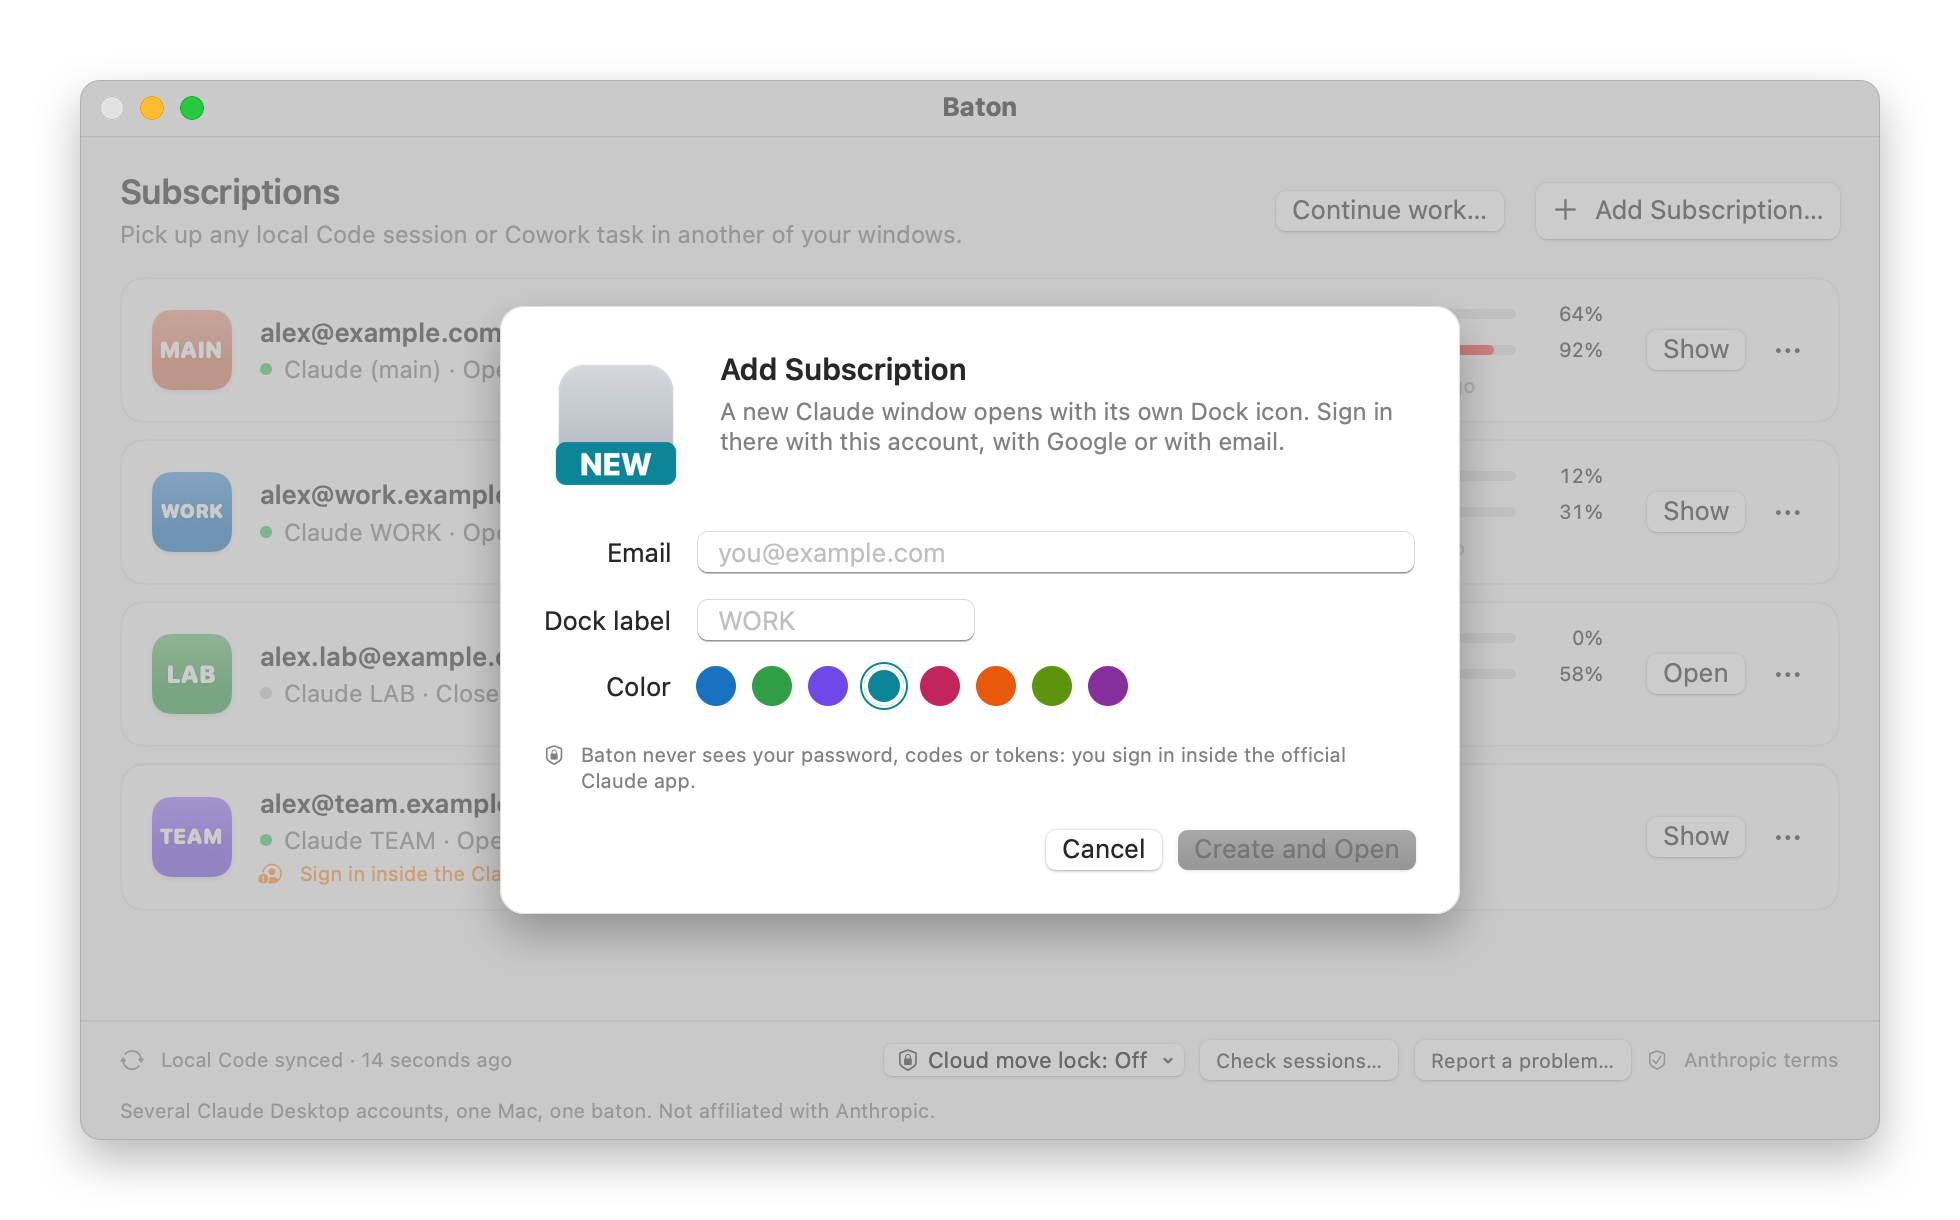
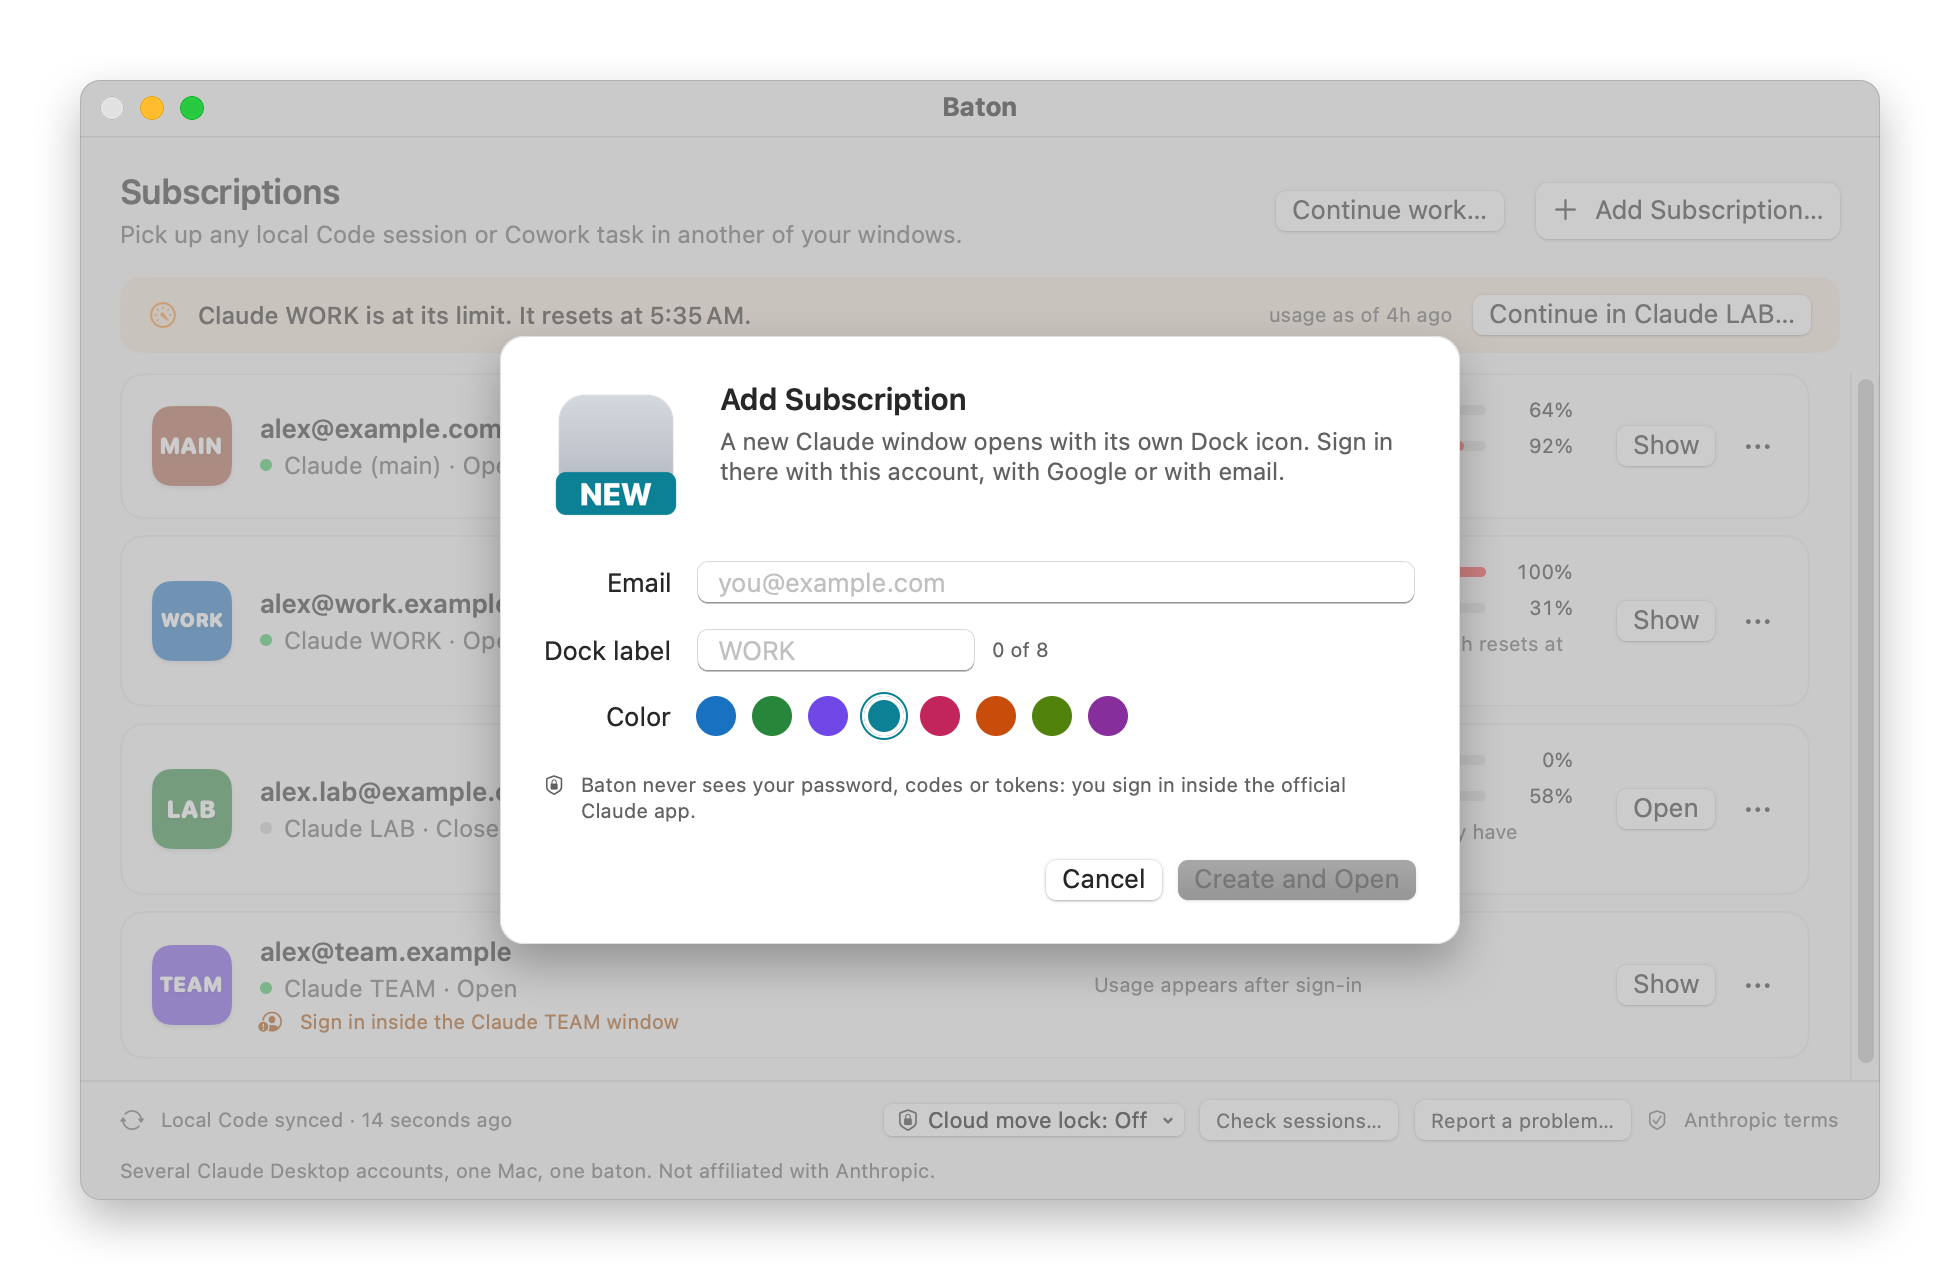
Demo: a window at its limit, and the README pictures redrawn
WORK is at its five-hour limit with a reset time, so main-window.png shows the limit banner and the reset beside the
meters, and LAB's four-hour-old sample shows that its usage may have changed since. The demo window is 560 points
tall, as the app opens, so all four rows fit. The snapshot shows the window itself when SwiftUI kept it closed at
launch (the real app shares that state), since a sheet waits for its window.

diff --git a/Sources/BatonApp/AppModel.swift b/Sources/BatonApp/AppModel.swift
@@ -314,7 +314,12 @@ final class AppModel: ObservableObject {
     }
 
     func reload() {
-        if isDemo { statuses = DemoData.statuses; lastSync = Date().addingTimeInterval(-14); return }
+        if isDemo {
+            statuses = DemoData.statuses
+            atLimit = Set(statuses.filter { $0.isSignedIn && $0.limits.isAtLimit() }.map(\.id))
+            lastSync = Date().addingTimeInterval(-14)
+            return
+        }
         let manager = manager
         Task.detached {
             let fresh = manager.statuses()
@@ -510,20 +515,27 @@ enum DemoData {
             profiles: statuses.compactMap(\.profile).map { [$0.label, $0.id] })
     }
 
+    /// WORK is at its five-hour limit with a reset time Claude named, so the pictures show the limit banner, the reset
+    /// beside the meters and the at-limit entry in the Continue sheet; LAB's sample is four hours old, so its usage
+    /// "may have changed since".
     static var statuses: [ProfileStatus] {
         let now = Date()
+        let workUsage = Usage(fiveHour: 100, week: 31, sampledAt: now.addingTimeInterval(-300))
+        var workLimits = Limits(usage: workUsage)
+        workLimits.fiveHour = LimitState(
+            kind: .fiveHour, percent: 100, sampledAt: workUsage.sampledAt, reachedAt: now.addingTimeInterval(-2_400),
+            reset: LimitReset(at: now.addingTimeInterval(5_700), source: .exact))
         return [
             ProfileStatus(
                 profile: nil, accountID: "demo-main", email: "alex@example.com",
                 usage: Usage(fiveHour: 64, week: 92, sampledAt: now.addingTimeInterval(-600)), isRunning: true),
             ProfileStatus(
                 profile: Profile(id: "work", label: "WORK", email: "alex@work.example", color: "#1971C2"),
-                accountID: "demo-work", email: "alex@work.example",
-                usage: Usage(fiveHour: 12, week: 31, sampledAt: now.addingTimeInterval(-300)), isRunning: true),
+                accountID: "demo-work", email: "alex@work.example", usage: workUsage, isRunning: true, limits: workLimits),
             ProfileStatus(
-                profile: Profile(id: "lab", label: "LAB", email: "alex.lab@example.org", color: "#2F9E44"),
+                profile: Profile(id: "lab", label: "LAB", email: "alex.lab@example.org", color: "#28863A"),
                 accountID: "demo-lab", email: "alex.lab@example.org",
-                usage: Usage(fiveHour: 0, week: 58, sampledAt: now.addingTimeInterval(-7200)), isRunning: false),
+                usage: Usage(fiveHour: 0, week: 58, sampledAt: now.addingTimeInterval(-14_400)), isRunning: false),
             ProfileStatus(
                 profile: Profile(id: "team", label: "TEAM", email: "alex@team.example", color: "#7048E8"),
                 accountID: nil, email: nil, usage: nil, isRunning: true),

diff --git a/Sources/BatonApp/DemoSnapshot.swift b/Sources/BatonApp/DemoSnapshot.swift
@@ -9,7 +9,7 @@ import BatonKit
 @MainActor
 enum DemoSnapshot {
     /// The main window's content size in the pictures; demo mode opens at it.
-    static let contentSize = NSSize(width: 900, height: 530)
+    static let contentSize = NSSize(width: 900, height: 560)
     static let scale: CGFloat = 2
     /// Transparent room around the window for its shadow, in points.
     static let margin: CGFloat = 40
@@ -30,7 +30,11 @@ enum DemoSnapshot {
             let deadline = Date().addingTimeInterval(15)
             while Date() < deadline {
                 try? await Task.sleep(for: .milliseconds(250))
-                guard let window = mainWindow(), window.contentRect(forFrameRect: window.frame).size == contentSize else { continue }
+                guard let window = mainWindow() else { continue }
+                // SwiftUI keeps the window closed at launch when Baton last quit with it closed (the real app shares
+                // that state), and a sheet waits until its window is on screen.
+                if !window.isVisible { window.orderFrontRegardless() }
+                guard window.contentRect(forFrameRect: window.frame).size == contentSize else { continue }
                 guard !withSheet || window.attachedSheet != nil else { continue }
                 do {
                     try await settle(window)
